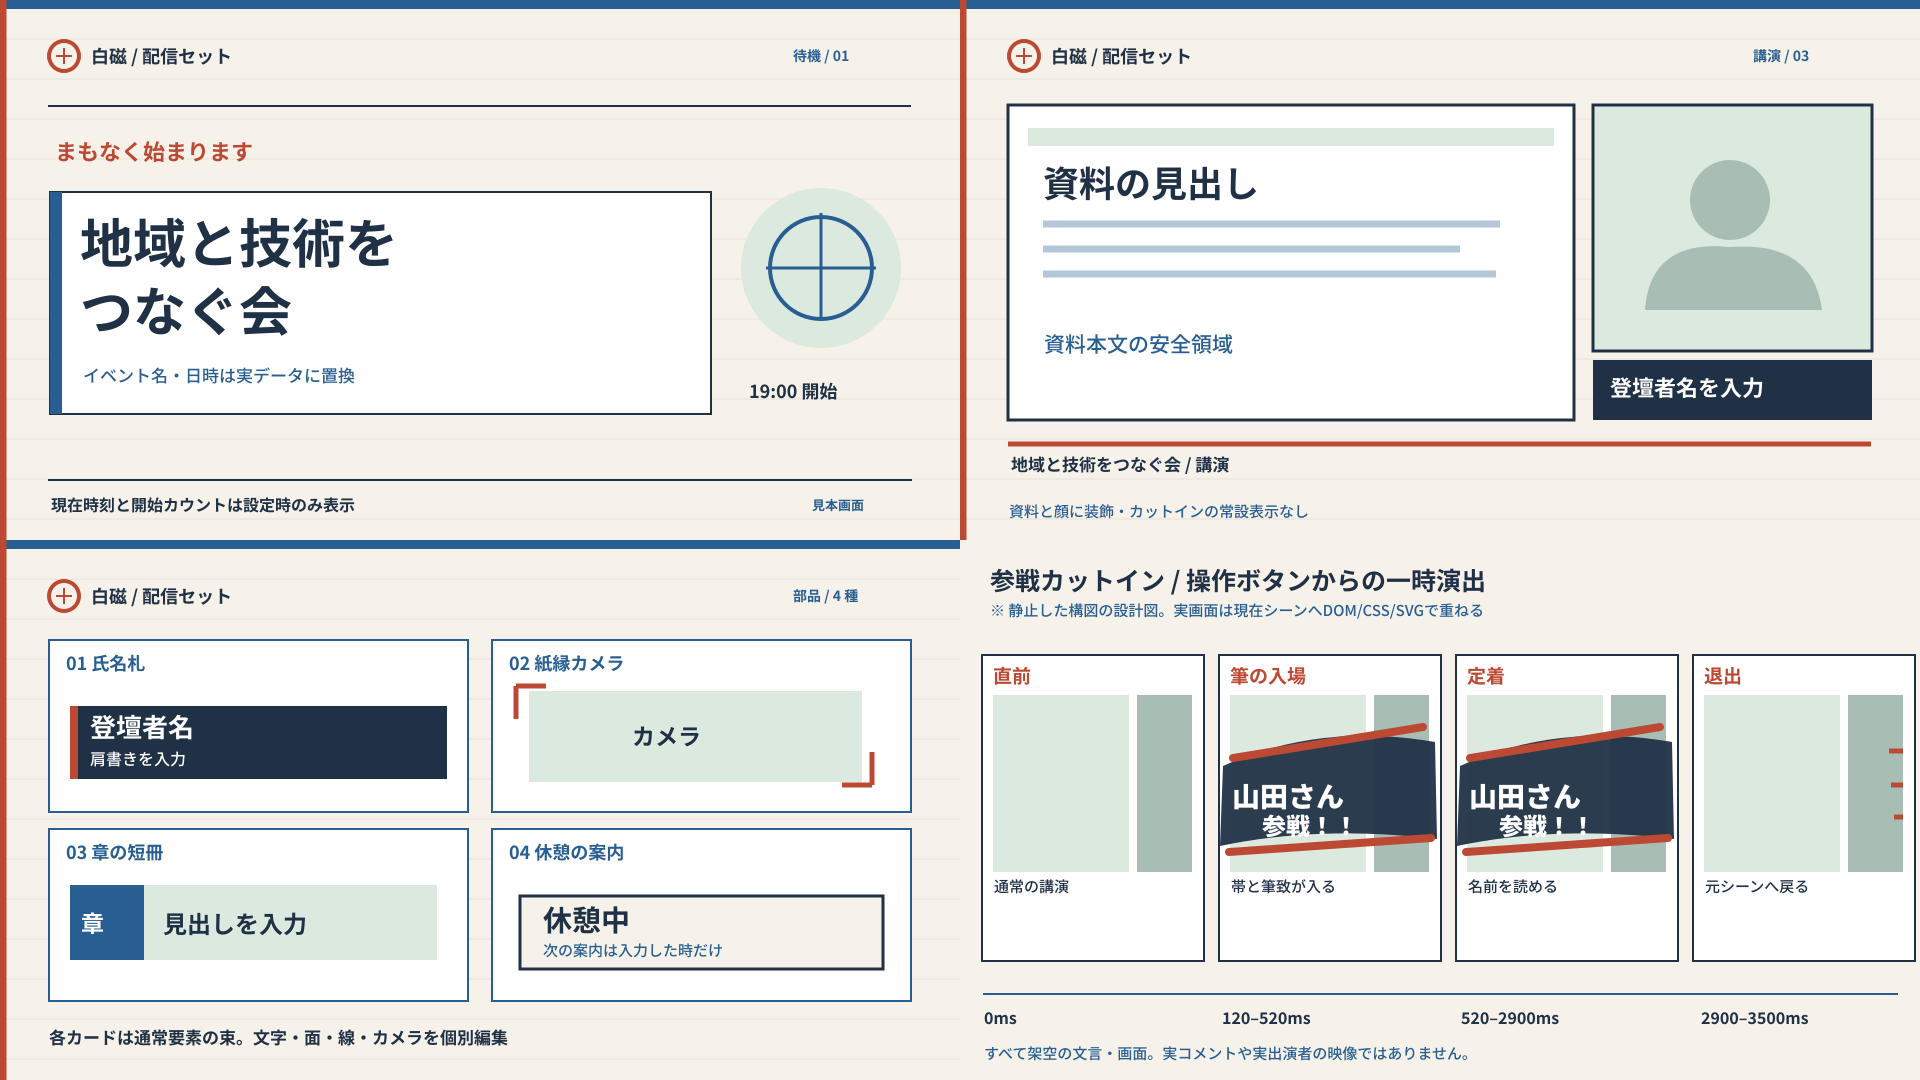
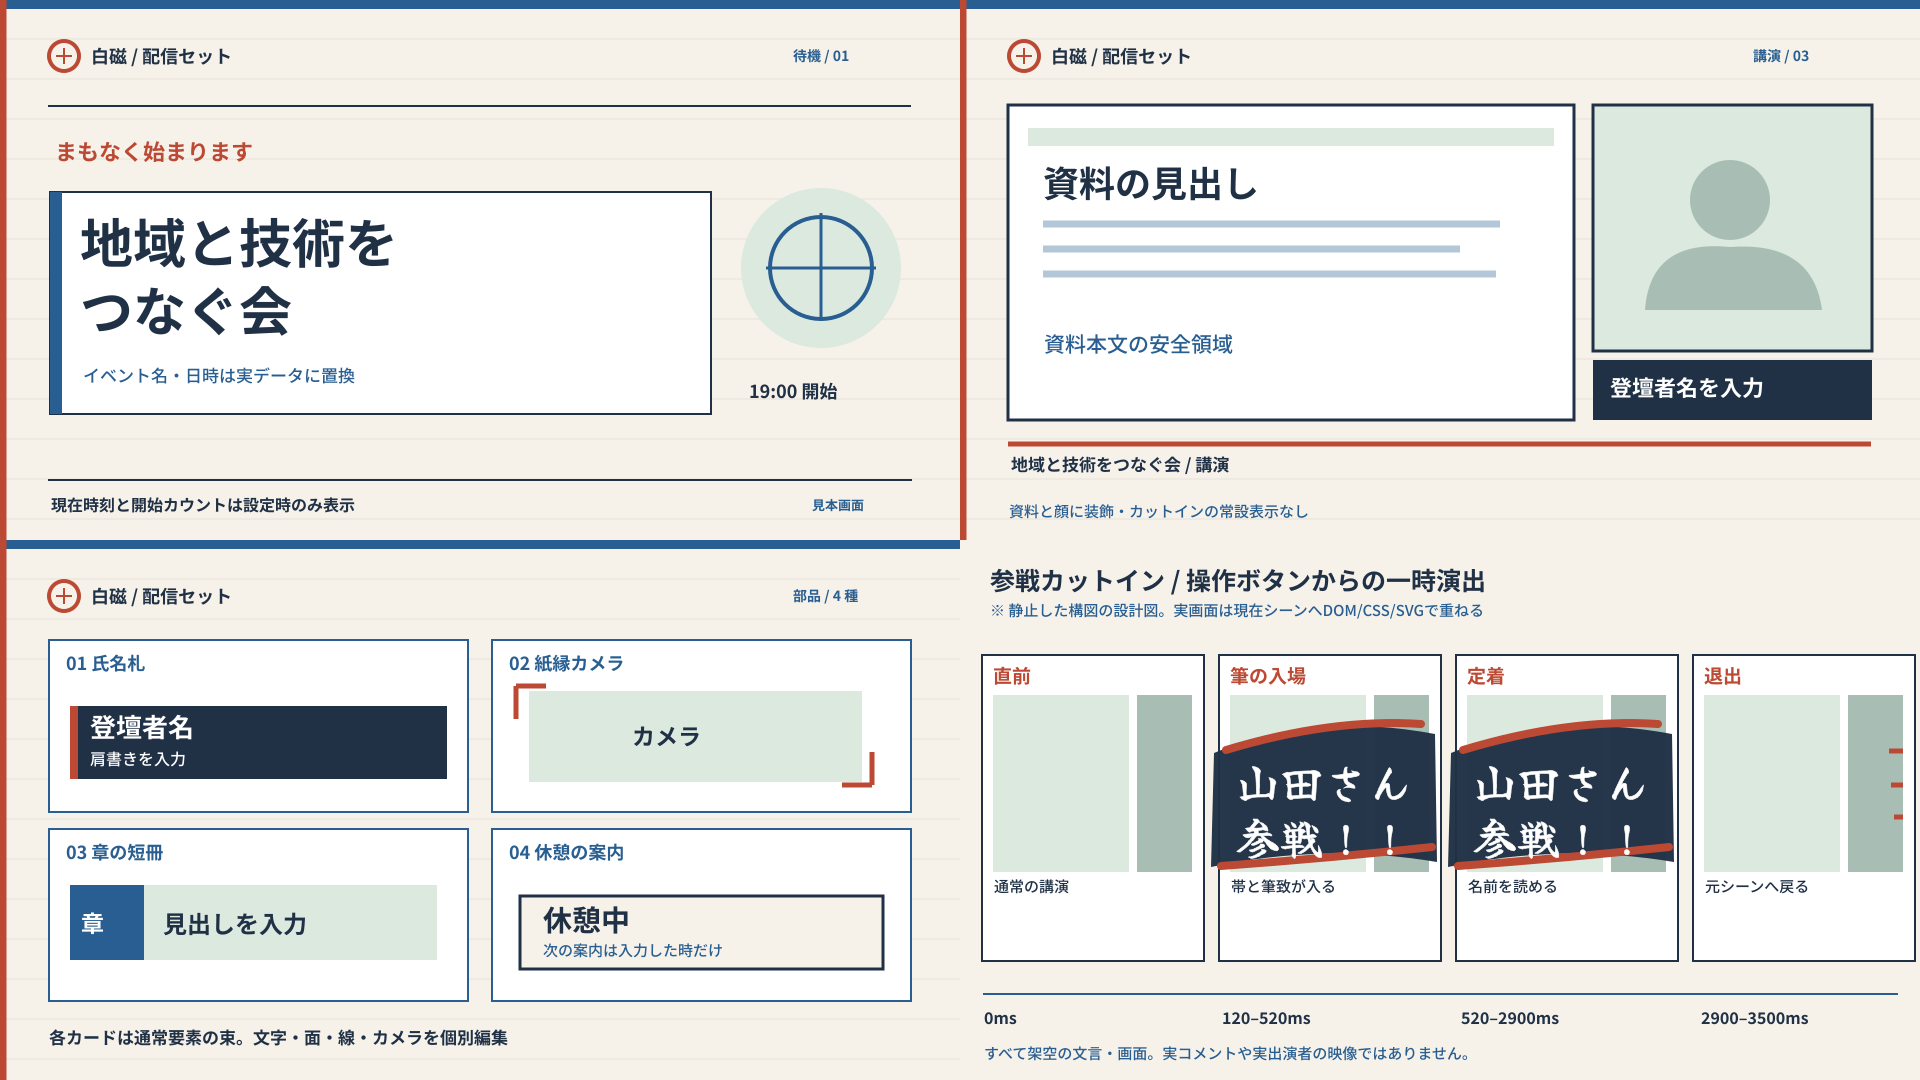
docs: make brush cut-in preview faithful and gate concurrent triggers

Changed region(s): [[0.625, 0.6417, 0.875, 0.825]]

diff --git a/docs/live-set-visual-design.md b/docs/live-set-visual-design.md
@@ -171,15 +171,15 @@
 
 ### 運営の「参戦演出」— 現在シーンの上に一度だけ
 
-入口: 当該イベントの配信コントロールに「参戦演出」を設け、`名前`（1–24文字、改行不可、制御文字不可）、`表示文`（1–40文字、初期は名前＋「 参戦！！」、任意編集可）を入力する。入力値の Unicode 正規化・空白整形・長さ制限はサーバとクライアントの双方で検証し、HTML/URL/任意CSS/画像は受け付けない。入力例「山田さん 参戦！！」は**架空の演出文**で実際の参加/参加者 API 状態を主張しない。配信へ自動反映しない独立した「見本を確認」プレビュー（運営側のみ）→「配信画面へ一度出す」トリガー。クリック後は「送信中」→返却された action ID と「受付済み」→配信画面タブが取得したとき「出力確認（画面タブ時刻）」、取得できなければ「出力未確認」、失敗なら「送信失敗・再試行」を表示する。受付＝実視聴者に描画済み、とは呼ばない。必要なら「取り消す」は現在の action ID のみ（消したい誤入力への安全操作）。手動「もう一度出す」は毎回**新しい ID** を発行し意図しないダブルクリックを防ぐ。送信ごとのクライアント生成冪等キーをイベントと staff に紐付け、応答を失った同一操作の再試行は同じ ID/結果を返す（新しい演出を望む場合は別の操作）。配信シーン・LIVE・コメント元は変えない。
+入口: 当該イベントの配信コントロールに「参戦演出」を設け、`名前`（1–24文字、改行不可、制御文字不可）、`表示文`（1–40文字、初期は名前＋「 参戦！！」、任意編集可）を入力する。入力値の Unicode 正規化・空白整形・長さ制限はサーバとクライアントの双方で検証し、HTML/URL/任意CSS/画像は受け付けない。入力例「山田さん 参戦！！」は**架空の演出文**で実際の参加/参加者 API 状態を主張しない。配信へ自動反映しない独立した「見本を確認」プレビュー（運営側のみ）→「配信画面へ一度出す」トリガー。クリック後は「送信中」→返却された action ID と「受付済み」→配信画面タブが取得したとき「出力確認（画面タブ時刻）」、取得できなければ「出力未確認」、失敗なら「送信失敗・再試行」を表示する。受付＝実視聴者に描画済み、とは呼ばない。必要なら「取り消す」は現在の action ID のみ（消したい誤入力への安全操作）。演出受付後10秒の有効窓は同イベントの「演出中」としてボタンを無効化し、サーバの `expiresAt` から再操作可能までの秒数を明示する。窓内の別タブからの操作は `409 busy` と残り秒数を表示し、**受付済みにしない**。消去しても有効窓中は新規発火できない。窓の終了後に手動「もう一度出す」を押したときだけ**新しい ID** を発行する。送信ごとのクライアント生成冪等キーをイベントと staff に紐付け、応答を失った同一操作の再試行は同じ ID/結果を返す（新しい演出を望む場合は別の操作）。配信シーン・LIVE・コメント元は変えない。
 
-視覚: 現在のシーンの上へ透過の独立 DOM/SVG レイヤーを乗せ、濃紺の斜め帯と朱の筆勢を**自作ベクター**で描く。日本語の筆文字は、実装時に SIL Open Font License 1.1 の [Yuji Syuku（OFL.txt、著作権 Yuji Project Authors）](https://github.com/google/fonts/tree/main/ofl/yujisyuku) を必要文字分 self-host し、ライセンス文書と著作権表示を同梱する案。SVG に文字アウトラインや第三者画像/ライセンス未確認フォントを埋め込まない。プレビュー図の文字はローカルの一般的な日本語ゴシックによる**代替見本**で筆フォントの実レンダリング保証ではない。フォント未ロード/不達時は `Noto Sans JP`, 日本語 system sans, sans-serif の太字＋自作の斜線・帯で意味を保ち、装飾のみで文字を隠さない。文字は CSS/DOM のテキストノードで表示、画像化や GIF 再生はしない。
+視覚: 現在のシーンの上へ透過の独立 DOM/SVG レイヤーを乗せ、濃紺の斜め帯と朱の筆勢を**自作ベクター**で描く。日本語の筆文字は SIL Open Font License 1.1 の [Yuji Syuku（Copyright 2021 The Yuji Project Authors）](https://github.com/google/fonts/tree/main/ofl/yujisyuku) を使う。**この設計プレビューだけ**は公式配布の `YujiSyuku-Regular.ttf` から fontTools で架空の「山田さん 参戦！！」の7種の文字をベクター輪郭に変換して storyboard SVG に自己完結で置き、PNG に同じ絵を描き出した（端末のフォント有無に依存しない）。字体の出典・同梱ライセンス全文は [OFL-Yuji-Syuku.txt](assets/live-set-562/OFL-Yuji-Syuku.txt)。TTF 本体は設計成果物へ同梱しない。実装時は同じ書体をライセンス/著作権表示とともに必要文字分 self-host し、出力は**入力した動的 DOM テキスト**として描く。プレビューの文字輪郭をランタイム画像として再生/焼き込みはしない。フォント未ロード/不達時は `Noto Sans JP`, 日本語 system sans, sans-serif の太字＋自作の斜線・帯で意味を保ち、装飾のみで文字を隠さない。文字は CSS/DOM のテキストノードで表示、画像化や GIF 再生はしない。
 
 ストーリーボードの目安（合計3.5秒）: 0–120ms 通常画面→120–520ms 帯が画面外から入り筆線が描かれる→520–2900ms 静止して氏名と文言が読める→2900–3500ms 帯ごと画面外へ抜け、元シーンが連続して残る。実寸720pでも文字約36px論理以上、長い入力は上限2行で文字サイズ下限を守り、端48pxに収める。カットイン中のみ資料/顔へ一瞬かかり得るが、半透明にせず資料と映像を劣化させない短い明示的演出とし、出力対象者へ運営がリハーサルで確認する。強いフラッシュ、点滅、音声、自動反復なし。`prefers-reduced-motion` またはフォント/アニメ失敗時は移動を無くした読みやすい静止帯を約3秒表示して確実に消す。タブ停止からの復帰では時刻を巻き戻して再生しない。
 
-イベント単位の action 契約: eventId・サーバ生成の単調増加 `actionId`（イベント単位 sequence または衝突のないサーバ ID＋確定順）・正規化済み文言・`issuedAt`・`expiresAt=issuedAt+10s`・`dismissedAt?` をイベント状態に保存し、GET は最新の action だけ返す。発火 PATCH は当該イベントの**参加確定 staff**（admin バイパスなし）＋既存認証/CSRF を通過したときだけ、サーバ時刻で ID を新規発行する。公開 feed や外部 webhook は作らない。GET 1秒ポーリングの2画面タブは**各タブでそのイベントの既知 ID を追跡**し、新しい未失効 ID だけ1回出す。タブ初回読込は返却済み ID を既知にして**ページ reload では再生しない**（初回読込直後の発火はその後の新 ID なので表示）。イベント ID が変わったら追跡をリセットし、そのイベントの初回値を既知にして別イベントの action を絶対に出さない。閉じた/期限切れの ID は出さず、失敗/5秒超の GET 停滞では演出を消し stale を運営に知らせ、回復時の古い ID を再生しない。2出力タブはそれぞれ再生できるが、運営側 ack はタブごとの短命なタブ ID を付けた参加確定 staff 専用の event/action-scoped 受領 POST（演出を実際に DOM へ挿入したときだけ）で識別する。ポーリングする運営 UI は既知の画面タブごとに確認/未確認を表示し、1タブの ack を全タブ確認済みと表現しない。タブ ID はページ寿命だけ、ack は10秒程度で失効し録画/視聴者表示の保証には使わない。消去は同イベント・対象 ID のみ、同時に新しい演出を消さない。送信失敗は出力成功に見せず、再試行はユーザーが明示して行う。
+イベント単位の action 契約: eventId・サーバ生成の単調増加 `actionId`（イベント単位 sequence または衝突のないサーバ ID＋確定順）・正規化済み文言・`issuedAt`・`expiresAt=issuedAt+10s`・`dismissedAt?` をイベント状態に保存し、GET は最新の action だけ返す。**同イベントに `expiresAt > serverNow` の先行 action がある間は、dismiss 済みでも次を発行しない。** 発火 PATCH は当該イベントの**参加確定 staff**（admin バイパスなし）＋既存認証/CSRF を通過したときだけ、サーバ時刻で先行 action の期限判定と新しい ID の発行/保存を**一つの原子的な条件付き操作**で行う。二つのスタッフが同秒に押しても一方だけを受付、もう一方は `409 busy`（先行 `expiresAt` とサーバ時刻由来の残秒）で返す。冪等キーの同一操作の再送は先に元の結果を返し、新しい action を作らない。受理済みでも未観測のタブへの再生は保証せず、各タブの ack を分けて表示する。公開 feed や外部 webhook は作らない。GET 1秒ポーリングの2画面タブは**各タブでそのイベントの既知 ID を追跡**し、新しい未失効 ID だけ1回出す。タブ初回読込は返却済み ID を既知にして**ページ reload では再生しない**（初回読込直後の発火はその後の新 ID なので表示）。イベント ID が変わったら追跡をリセットし、そのイベントの初回値を既知にして別イベントの action を絶対に出さない。閉じた/期限切れの ID は出さず、失敗/5秒超の GET 停滞では演出を消し stale を運営に知らせ、回復時の古い ID を再生しない。2出力タブはそれぞれ再生できるが、運営側 ack はタブごとの短命なタブ ID を付けた参加確定 staff 専用の event/action-scoped 受領 POST（演出を実際に DOM へ挿入したときだけ）で識別する。ポーリングする運営 UI は既知の画面タブごとに確認/未確認を表示し、1タブの ack を全タブ確認済みと表現しない。タブ ID はページ寿命だけ、ack は10秒程度で失効し録画/視聴者表示の保証には使わない。消去は同イベント・対象 ID のみ、同時に新しい演出を消さない。送信失敗は出力成功に見せず、再試行はユーザーが明示して行う。
 
-`event_live_state` の scene/LIVE/chatSource/cut-in action は、上記の既存 read–merge–全列 UPDATE では競合で巻き戻る。**明示されたフィールドのみ原子的に PATCH**（action 発行は同イベント直列化・一意 ID 採番）し、シーン切替・LIVE OFF・chatSource OFF・演出発火の4並行操作が互いの値を復活/消去しない。どの古い暗色セットにも action 用の要素を保存せず、現在の出力シーンを覆う一時オーバーレイとして動く。イベント終了・権限喪失時は発火不可、画面は期限で消す。OBS 連携・参加検出・アラートエンジンは対象外。
+`event_live_state` の scene/LIVE/chatSource/cut-in action は、上記の既存 read–merge–全列 UPDATE では競合で巻き戻る。**明示されたフィールドのみ原子的に PATCH**（action 発行は同イベントの期限確認＋条件付き書込＋一意 ID 採番を原子的に処理）し、シーン切替・LIVE OFF・chatSource OFF・演出発火の4並行操作が互いの値を復活/消去しない。どの古い暗色セットにも action 用の要素を保存せず、現在の出力シーンを覆う一時オーバーレイとして動く。イベント終了・権限喪失時は発火不可、画面は期限で消す。OBS 連携・参加検出・アラートエンジンは対象外。
 
 ### #562 のイベントコメント：投稿者のアイコンと名前
 
@@ -191,8 +191,8 @@
 
 1. 新規の白磁だけが7シーンを持ち、各シーンを変更/保存/再読込して編集後の出力と比較。従来既定・灯り・輪郭と古い保存セットの JSON/画面差分がゼロ、ロゴなし・長い日本語氏名（24字）と題名（2行）、未選択資料/カメラ拒否、720p/1080p で文字切れ・資料/顔への常設重なりがないことを画面キャプチャで確認。
 2. 白磁4カードを各1回挿入し文字・面・色・camera・線を別々に編集/削除→Undo/Redo→再読込し出力へ反映。50要素境界は追加前にエラー表示。時計の時刻とカウントダウン、LIVE OFF/ON とチャット行の明色面上のコントラストを実測し、reduced-motion でも数値更新。従来スタイルの clock/LIVE/chat の動作も回帰。
-3. コントロールで架空名を入力し「見本を確認」では配信へ送られず、trigger の成功は ID/受付表示、2タブの受領状態を区別。演出中にシーンは変わらず、3.5秒後に画面が元どおりになる。過長/空/HTML/制御文字は拒否か無害な text、フォント失敗・reduced-motion・遅い描画でも静止帯の可読性と期限での消去を確認。明示 repeat は新 ID、二重押下は1回、dismiss は同 ID のみ。
-4. 競合テストで scene 更新・LIVE OFF・chatSource OFF・cut-in 発火を2つの運営タブから重ね、最終値が相互上書きされないこと。期限切れ・出力画面 reload・別イベントへ切替・staff 権限取り消し・GET 失敗/5秒滞留では過去 action を再生せず演出も残さないこと。一般参加者・非確定スタッフ・admin バイパスの発火を拒否。
+3. コントロールで架空名を入力し「見本を確認」では配信へ送られず、trigger の成功は ID/受付表示、2タブの受領状態を区別。演出中にシーンは変わらず、3.5秒後に画面が元どおりになる。過長/空/HTML/制御文字は拒否か無害な text、フォント失敗・reduced-motion・遅い描画でも静止帯の可読性と期限での消去を確認。10秒窓終了後の明示 repeat は新 ID、窓内の二重押下は `409 busy` で誤受付しない（同一冪等キー再送のみ元の結果）、dismiss は同 ID のみで窓を短縮しない。
+4. 競合テストで**同イベントの別々の確定 staff 2人が同じ秒に別の冪等キーで発火**しても受理はちょうど1件、もう1件は `409 busy`＋サーバ期限からの残秒となり、出力2タブは受理した1 ID 以外を決して表示しないこと。GET で未観測なら ack は「未確認」のまま、期限後の手動 repeat は新 ID を受理し、dismiss 済みでも期限前は busy。さらに scene 更新・LIVE OFF・chatSource OFF・cut-in 発火を2つの運営タブから重ね、最終値が相互上書きされないこと。期限切れ・出力画面 reload・別イベントへ切替・staff 権限取り消し・GET 失敗/5秒滞留では過去 action を再生せず演出も残さないこと。一般参加者・非確定スタッフ・admin バイパスの発火を拒否。
 5. 実際の events lab 投稿について「許可済み著者の同一オリジン icon + name + 別の source」と空アイコン/壊れたURL時の頭文字/シルエットを検証。チャット OFF、非公開/無効イベント、未参加、ブロック、非表示、チャンネル変更、画像404、relayの偽 pubkey、更新失敗では行と画像を fail-closed。URLを投稿しても外部画像やリンクを展開しない。#562 UI/API が `youtube`/`combined` を許さないことをテスト。#564 の検証結果は別ゲート。
 
 **オーナーに見てほしい選択（未承認）**: 白磁の配色/左右の資料・カメラ比率、カットインの朱・濃紺と静止時間、氏名と任意表示文を別欄にする入口。これらを含め実装・統合・配備は別途承認。ブラウザ実画面とフォント読込/明度は本設計図だけでは保証できない。
